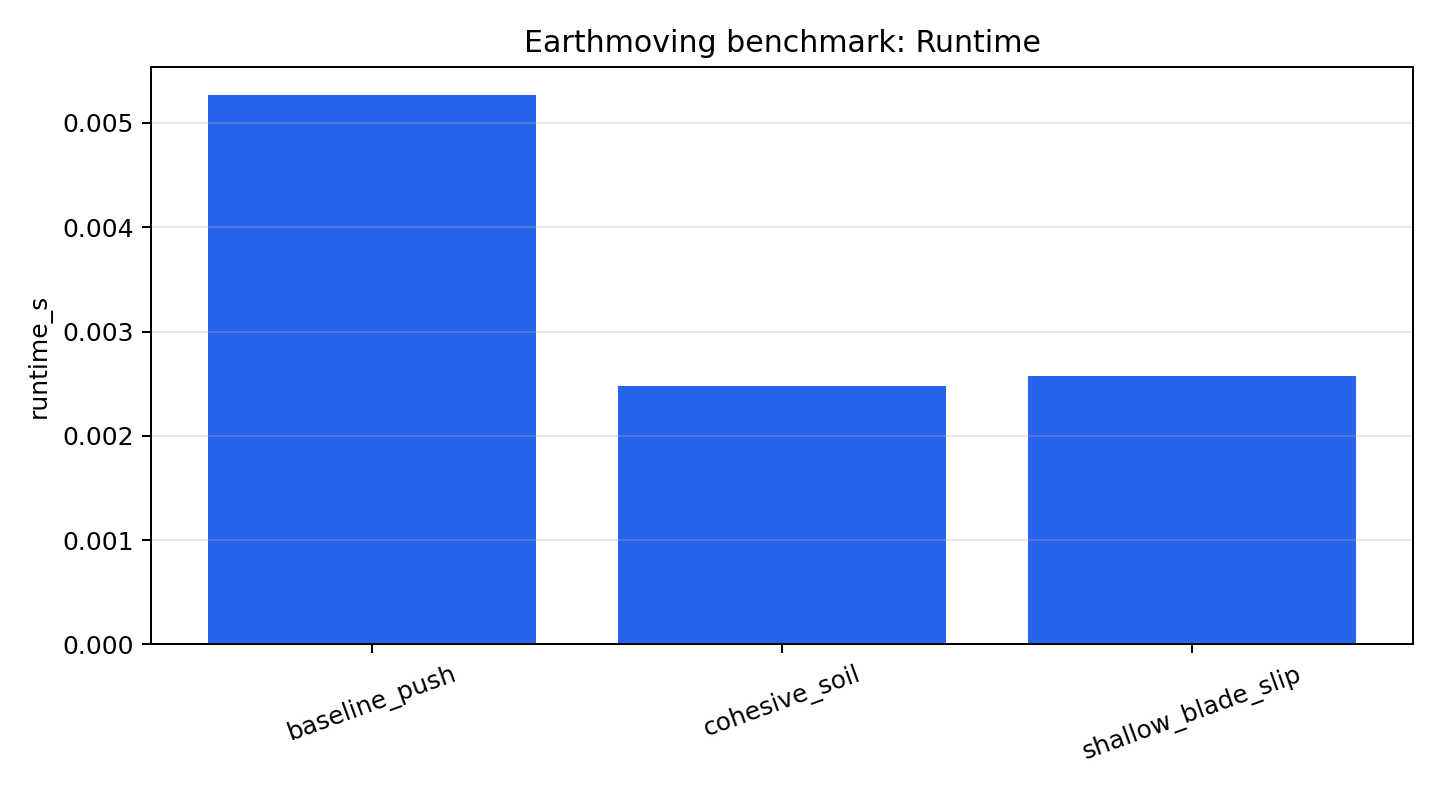
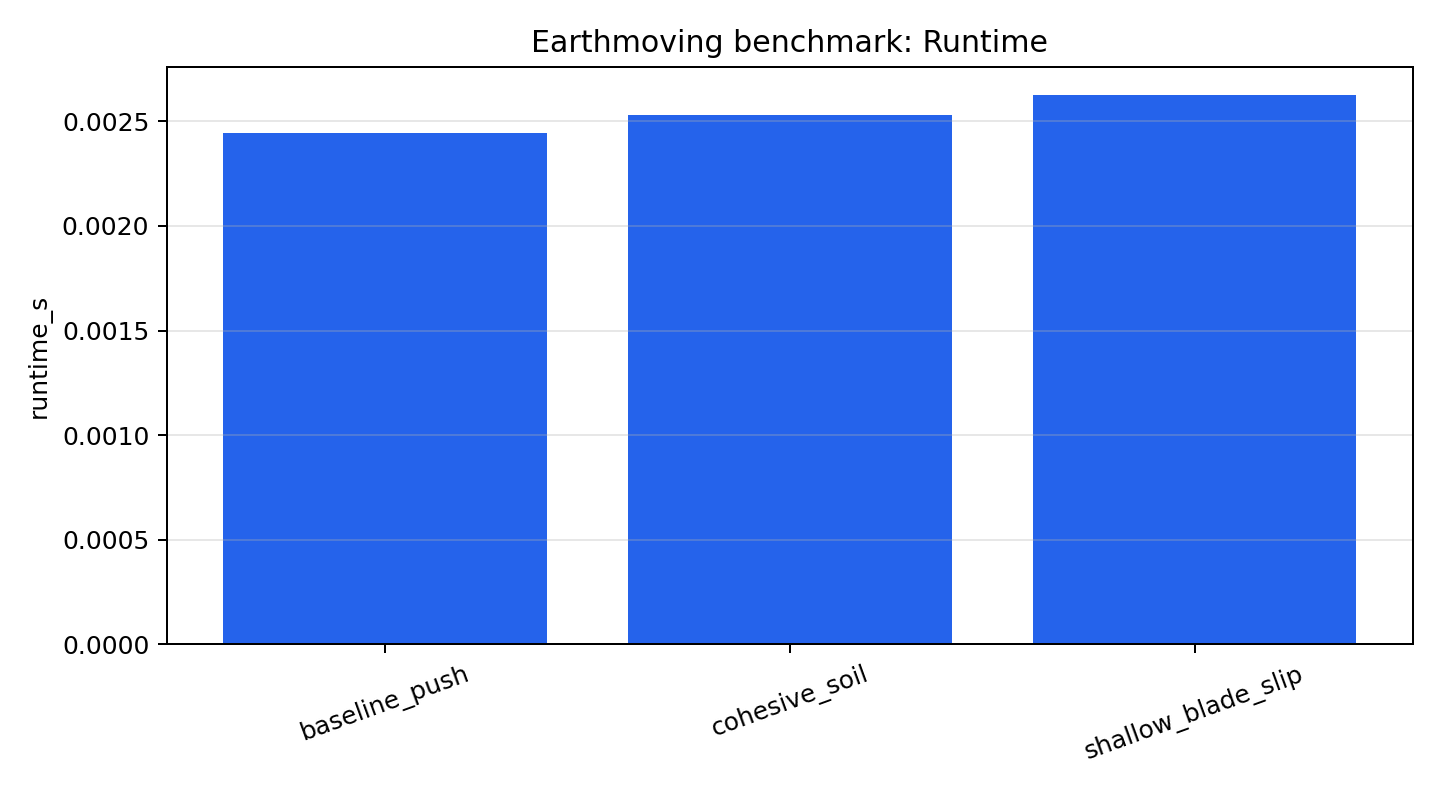
Add earthmoving material progress metrics

diff --git a/outputs/earthmoving_dashboard/index.html b/outputs/earthmoving_dashboard/index.html
@@ -114,6 +114,7 @@
         <section><h3>Gate Status</h3><p>pass</p></section>
         <section><h3>Throughput</h3><p>323.79/s</p></section>
         <section><h3>Best Scenario</h3><p>shallow_blade_slip</p></section>
+        <section><h3>Deposit Progress</h3><p>0.000 m</p></section>
         <section><h3>Calibration Error</h3><p>0.4378</p></section>
       </div>
     </header>
@@ -124,10 +125,10 @@
 <section><h3>Largest sim-to-field gap</h3><p>baseline_push</p><span>Improve delivered-material measurement around the target berm region.</span></section></div>
     <h2>Scenario Results</h2>
     <table>
-      <thead><tr><th>Scenario</th><th>Moved Volume</th><th>Terrain RMSE</th><th>Volume Error</th><th>Runtime</th></tr></thead>
-      <tbody><tr><td>shallow_blade_slip</td><td>0.000687</td><td>0.011930</td><td>0.000000</td><td>0.00257</td></tr>
-<tr><td>baseline_push</td><td>0.001599</td><td>0.013620</td><td>0.000000</td><td>0.00527</td></tr>
-<tr><td>cohesive_soil</td><td>0.001111</td><td>0.016632</td><td>0.000000</td><td>0.00247</td></tr></tbody>
+      <thead><tr><th>Scenario</th><th>Moved Volume</th><th>Deposit Progress</th><th>Terrain RMSE</th><th>Volume Error</th><th>Runtime</th></tr></thead>
+      <tbody><tr><td>shallow_blade_slip</td><td>0.000687</td><td>0.0622</td><td>0.011930</td><td>0.000000</td><td>0.00263</td></tr>
+<tr><td>baseline_push</td><td>0.001599</td><td>0.0690</td><td>0.013620</td><td>0.000000</td><td>0.00244</td></tr>
+<tr><td>cohesive_soil</td><td>0.001111</td><td>0.0673</td><td>0.016632</td><td>0.000000</td><td>0.00253</td></tr></tbody>
     </table>
     <h2>Top Sensitivities</h2>
     <table>

diff --git a/src/mujoco_sim_debugging_playbook/earthmoving_review_packet.py b/src/mujoco_sim_debugging_playbook/earthmoving_review_packet.py
@@ -36,6 +36,7 @@ def build_earthmoving_review_packet(
             "episodes_per_second": scale["summary"]["episodes_per_second"],
             "best_scenario": best_scenario["scenario"],
             "hardest_scenario": hardest_scenario["scenario"],
+            "mean_deposit_forward_progress": _mean(row.get("deposit_forward_progress", 0.0) for row in benchmark["rows"]),
             "mean_calibration_error": gap["summary"]["mean_calibration_error"],
             "top_sensitivity": top_sensitivity,
         },
@@ -43,12 +44,14 @@ def build_earthmoving_review_packet(
             _signal("Quality gate", gate["status"], "Earthmoving realism and throughput thresholds"),
             _signal("Scale throughput", f"{scale['summary']['episodes_per_second']:.2f} episodes/s", "Randomized batch evaluation speed"),
             _signal("Best terrain match", best_scenario["scenario"], f"RMSE {best_scenario['terrain_profile_rmse']:.5f}"),
+            _signal("Mean deposit progress", f"{_mean(row.get('deposit_forward_progress', 0.0) for row in benchmark['rows']):.3f} m", "Centroid displacement from cut region to deposit region"),
             _signal("Largest sim-to-field gap", top_gap["scenario"] if top_gap else "none", top_gap["recommended_action"] if top_gap else "No gap items"),
         ],
         "scenario_table": [
             {
                 "scenario": row["scenario"],
                 "moved_volume": row["moved_volume"],
+                "deposit_forward_progress": row.get("deposit_forward_progress", 0.0),
                 "terrain_profile_rmse": row["terrain_profile_rmse"],
                 "volume_conservation_error": row["volume_conservation_error"],
                 "runtime_s": row["runtime_s"],
@@ -111,6 +114,7 @@ def render_review_packet_markdown(payload: dict[str, Any]) -> str:
         f"- Throughput: `{summary['episodes_per_second']:.2f}` episodes/s",
         f"- Best scenario: `{summary['best_scenario']}`",
         f"- Hardest scenario: `{summary['hardest_scenario']}`",
+        f"- Mean deposit progress: `{summary['mean_deposit_forward_progress']:.3f}` m",
         f"- Mean calibration error: `{summary['mean_calibration_error']:.4f}`",
         "",
         "## Readiness Signals",
@@ -121,10 +125,10 @@ def render_review_packet_markdown(payload: dict[str, Any]) -> str:
     for signal in payload["readiness_signals"]:
         lines.append(f"| {signal['name']} | {signal['value']} | {signal['detail']} |")
 
-    lines.extend(["", "## Scenario Results", "", "| scenario | moved_volume | terrain_rmse | volume_error | runtime_s |", "| --- | ---: | ---: | ---: | ---: |"])
+    lines.extend(["", "## Scenario Results", "", "| scenario | moved_volume | deposit_progress_m | terrain_rmse | volume_error | runtime_s |", "| --- | ---: | ---: | ---: | ---: | ---: |"])
     for row in payload["scenario_table"]:
         lines.append(
-            f"| {row['scenario']} | {row['moved_volume']:.6f} | {row['terrain_profile_rmse']:.6f} | "
+            f"| {row['scenario']} | {row['moved_volume']:.6f} | {row['deposit_forward_progress']:.4f} | {row['terrain_profile_rmse']:.6f} | "
             f"{row['volume_conservation_error']:.6f} | {row['runtime_s']:.5f} |"
         )
 
@@ -144,3 +148,8 @@ def _read_json(path: str | Path) -> dict[str, Any]:
 
 def _signal(name: str, value: str, detail: str) -> dict[str, str]:
     return {"name": name, "value": value, "detail": detail}
+
+
+def _mean(values: Any) -> float:
+    items = [float(value) for value in values]
+    return sum(items) / len(items) if items else 0.0

diff --git a/src/mujoco_sim_debugging_playbook/earthmoving.py b/src/mujoco_sim_debugging_playbook/earthmoving.py
@@ -50,6 +50,11 @@ class EarthmovingMetrics:
     volume_conservation_error: float
     terrain_profile_rmse: float
     target_zone_volume: float
+    cut_centroid_x: float
+    cut_centroid_y: float
+    deposit_centroid_x: float
+    deposit_centroid_y: float
+    deposit_forward_progress: float
     material_moved_per_second: float
     pass_count: int
     runtime_s: float
@@ -128,6 +133,7 @@ class EarthmovingSimulation:
         soil_summary = apply_blade_pass(terrain, path, self.scenario.soil)
         runtime_s = max(time.perf_counter() - start_time, 1e-9)
         target_zone_volume = _target_zone_volume(terrain, self.scenario.target_center_x, self.scenario.target_width)
+        displacement = _material_displacement_metrics(initial, terrain)
         metrics = EarthmovingMetrics(
             moved_volume=soil_summary["moved_volume"],
             compacted_volume=soil_summary["compacted_volume"],
@@ -135,6 +141,11 @@ class EarthmovingSimulation:
             volume_conservation_error=abs(soil_summary["volume_error"]),
             terrain_profile_rmse=terrain.profile_error(target),
             target_zone_volume=target_zone_volume,
+            cut_centroid_x=displacement["cut_centroid_x"],
+            cut_centroid_y=displacement["cut_centroid_y"],
+            deposit_centroid_x=displacement["deposit_centroid_x"],
+            deposit_centroid_y=displacement["deposit_centroid_y"],
+            deposit_forward_progress=displacement["deposit_forward_progress"],
             material_moved_per_second=soil_summary["moved_volume"] / runtime_s,
             pass_count=1,
             runtime_s=runtime_s,
@@ -161,6 +172,30 @@ def _target_zone_volume(terrain: TerrainGrid, center_x: float, width: float) -> 
     mask = np.abs(terrain.xs[:, None] - center_x) <= width
     excess = np.clip(terrain.heights - terrain.config.base_height, 0.0, None)
     return float(np.sum(np.where(mask, excess, 0.0)) * terrain.cell_area)
+
+
+def _material_displacement_metrics(initial: TerrainGrid, final: TerrainGrid) -> dict[str, float]:
+    if initial.config != final.config:
+        raise ValueError("initial and final terrain grids must share a config")
+    cut_weights = np.clip(initial.heights - final.heights, 0.0, None)
+    deposit_weights = np.clip(final.heights - initial.heights, 0.0, None)
+    cut_x, cut_y = _weighted_centroid(initial, cut_weights)
+    deposit_x, deposit_y = _weighted_centroid(final, deposit_weights)
+    return {
+        "cut_centroid_x": cut_x,
+        "cut_centroid_y": cut_y,
+        "deposit_centroid_x": deposit_x,
+        "deposit_centroid_y": deposit_y,
+        "deposit_forward_progress": deposit_x - cut_x,
+    }
+
+
+def _weighted_centroid(terrain: TerrainGrid, weights: np.ndarray) -> tuple[float, float]:
+    total = float(np.sum(weights))
+    if total <= 1e-12:
+        return 0.0, 0.0
+    xx, yy = np.meshgrid(terrain.xs, terrain.ys, indexing="ij")
+    return float(np.sum(xx * weights) / total), float(np.sum(yy * weights) / total)
 
 
 def result_to_dict(result: EarthmovingResult) -> dict[str, Any]:

diff --git a/src/mujoco_sim_debugging_playbook/earthmoving_benchmark.py b/src/mujoco_sim_debugging_playbook/earthmoving_benchmark.py
@@ -94,6 +94,11 @@ def _row_from_result(result: EarthmovingResult) -> dict[str, Any]:
         "volume_conservation_error": metrics.volume_conservation_error,
         "terrain_profile_rmse": metrics.terrain_profile_rmse,
         "target_zone_volume": metrics.target_zone_volume,
+        "cut_centroid_x": metrics.cut_centroid_x,
+        "cut_centroid_y": metrics.cut_centroid_y,
+        "deposit_centroid_x": metrics.deposit_centroid_x,
+        "deposit_centroid_y": metrics.deposit_centroid_y,
+        "deposit_forward_progress": metrics.deposit_forward_progress,
         "material_moved_per_second": metrics.material_moved_per_second,
         "runtime_s": metrics.runtime_s,
     }
@@ -124,6 +129,7 @@ def _plot_terrain_triptych(result: EarthmovingResult, path: Path) -> None:
 def _plot_metric_bars(rows: list[dict[str, Any]], output_dir: Path) -> None:
     metrics = [
         ("moved_volume", "Moved volume"),
+        ("deposit_forward_progress", "Deposit forward progress"),
         ("terrain_profile_rmse", "Terrain RMSE"),
         ("volume_conservation_error", "Volume conservation error"),
         ("runtime_s", "Runtime"),
@@ -145,14 +151,15 @@ def _write_report(rows: list[dict[str, Any]], output_path: Path) -> None:
     lines = [
         "# Earthmoving Benchmark",
         "",
-        "Construction-machine blade scenarios evaluated against terrain deformation, target berm, conservation, and runtime metrics.",
+        "Construction-machine blade scenarios evaluated against terrain deformation, target berm, material displacement, conservation, and runtime metrics.",
         "",
-        "| scenario | moved_volume | target_zone_volume | terrain_rmse | volume_error | runtime_s |",
-        "| --- | ---: | ---: | ---: | ---: | ---: |",
+        "| scenario | moved_volume | target_zone_volume | deposit_progress_m | terrain_rmse | volume_error | runtime_s |",
+        "| --- | ---: | ---: | ---: | ---: | ---: | ---: |",
     ]
     for row in sorted(rows, key=lambda item: item["terrain_profile_rmse"]):
         lines.append(
             f"| {row['scenario']} | {row['moved_volume']:.6f} | {row['target_zone_volume']:.6f} | "
+            f"{row['deposit_forward_progress']:.4f} | "
             f"{row['terrain_profile_rmse']:.6f} | {row['volume_conservation_error']:.6f} | {row['runtime_s']:.4f} |"
         )
     best = min(rows, key=lambda item: item["terrain_profile_rmse"])

diff --git a/src/mujoco_sim_debugging_playbook/earthmoving_dashboard.py b/src/mujoco_sim_debugging_playbook/earthmoving_dashboard.py
@@ -27,6 +27,7 @@ def _render_html(packet: dict[str, Any]) -> str:
         "<tr>"
         f"<td>{html.escape(row['scenario'])}</td>"
         f"<td>{row['moved_volume']:.6f}</td>"
+        f"<td>{row.get('deposit_forward_progress', 0.0):.4f}</td>"
         f"<td>{row['terrain_profile_rmse']:.6f}</td>"
         f"<td>{row['volume_conservation_error']:.6f}</td>"
         f"<td>{row['runtime_s']:.5f}</td>"
@@ -161,6 +162,7 @@ def _render_html(packet: dict[str, Any]) -> str:
         <section><h3>Gate Status</h3><p>{html.escape(summary['gate_status'])}</p></section>
         <section><h3>Throughput</h3><p>{summary['episodes_per_second']:.2f}/s</p></section>
         <section><h3>Best Scenario</h3><p>{html.escape(summary['best_scenario'])}</p></section>
+        <section><h3>Deposit Progress</h3><p>{summary.get('mean_deposit_forward_progress', 0.0):.3f} m</p></section>
         <section><h3>Calibration Error</h3><p>{summary['mean_calibration_error']:.4f}</p></section>
       </div>
     </header>
@@ -168,7 +170,7 @@ def _render_html(packet: dict[str, Any]) -> str:
     <div class="signals">{signals}</div>
     <h2>Scenario Results</h2>
     <table>
-      <thead><tr><th>Scenario</th><th>Moved Volume</th><th>Terrain RMSE</th><th>Volume Error</th><th>Runtime</th></tr></thead>
+      <thead><tr><th>Scenario</th><th>Moved Volume</th><th>Deposit Progress</th><th>Terrain RMSE</th><th>Volume Error</th><th>Runtime</th></tr></thead>
       <tbody>{scenario_rows}</tbody>
     </table>
     <h2>Top Sensitivities</h2>

diff --git a/src/mujoco_sim_debugging_playbook/earthmoving_failure_modes.py b/src/mujoco_sim_debugging_playbook/earthmoving_failure_modes.py
@@ -82,6 +82,8 @@ def _scenario_failure_items(row: dict[str, Any]) -> list[dict[str, Any]]:
         items.append(_item(row, "under_excavation", "high", 80.0, "Moved volume is below the practical debugging threshold.", "Increase blade depth/coupling or calibrate soil resistance."))
     if row["terrain_profile_rmse"] > 0.04:
         items.append(_item(row, "target_profile_miss", "high", 72.0, "Final terrain profile is far from the target berm.", "Tune deposit spread, target geometry, and path planning."))
+    if row.get("deposit_forward_progress", 0.0) < 0.15:
+        items.append(_item(row, "poor_material_progress", "medium", 62.0, "Deposit centroid did not advance far beyond the cut centroid.", "Inspect blade path, deposit spread, and transport losses."))
     if row["volume_conservation_error"] > 0.00025:
         items.append(_item(row, "volume_residual", "medium", 58.0, "Compaction-adjusted volume residual is elevated.", "Inspect compaction rate and transport/deposit accounting."))
     if row["runtime_s"] > 0.05:

diff --git a/tests/test_earthmoving.py b/tests/test_earthmoving.py
@@ -26,5 +26,7 @@ def test_earthmoving_simulation_runs_blade_push() -> None:
 
     assert result.metrics.moved_volume > 0.0
     assert result.metrics.target_zone_volume > 0.0
+    assert result.metrics.deposit_forward_progress > 0.0
+    assert result.metrics.deposit_centroid_x > result.metrics.cut_centroid_x
     assert result.metrics.terrain_profile_rmse >= 0.0
     assert len(result.blade_path) == scenario.blade.steps

diff --git a/tests/test_earthmoving_benchmark.py b/tests/test_earthmoving_benchmark.py
@@ -36,3 +36,4 @@ def test_run_earthmoving_benchmark_writes_outputs(tmp_path: Path) -> None:
     assert (output / "report.md").exists()
     assert (output / "baseline_push_terrain.png").exists()
     assert result["rows"][0]["moved_volume"] > 0.0
+    assert result["rows"][0]["deposit_forward_progress"] > 0.0

diff --git a/outputs/earthmoving_review_packet/review_packet.md b/outputs/earthmoving_review_packet/review_packet.md
@@ -6,6 +6,7 @@
 - Throughput: `323.79` episodes/s
 - Best scenario: `shallow_blade_slip`
 - Hardest scenario: `cohesive_soil`
+- Mean deposit progress: `0.066` m
 - Mean calibration error: `0.4378`
 
 ## Readiness Signals
@@ -15,15 +16,16 @@
 | Quality gate | pass | Earthmoving realism and throughput thresholds |
 | Scale throughput | 323.79 episodes/s | Randomized batch evaluation speed |
 | Best terrain match | shallow_blade_slip | RMSE 0.01193 |
+| Mean deposit progress | 0.066 m | Centroid displacement from cut region to deposit region |
 | Largest sim-to-field gap | baseline_push | Improve delivered-material measurement around the target berm region. |
 
 ## Scenario Results
 
-| scenario | moved_volume | terrain_rmse | volume_error | runtime_s |
-| --- | ---: | ---: | ---: | ---: |
-| shallow_blade_slip | 0.000687 | 0.011930 | 0.000000 | 0.00257 |
-| baseline_push | 0.001599 | 0.013620 | 0.000000 | 0.00527 |
-| cohesive_soil | 0.001111 | 0.016632 | 0.000000 | 0.00247 |
+| scenario | moved_volume | deposit_progress_m | terrain_rmse | volume_error | runtime_s |
+| --- | ---: | ---: | ---: | ---: | ---: |
+| shallow_blade_slip | 0.000687 | 0.0622 | 0.011930 | 0.000000 | 0.00263 |
+| baseline_push | 0.001599 | 0.0690 | 0.013620 | 0.000000 | 0.00244 |
+| cohesive_soil | 0.001111 | 0.0673 | 0.016632 | 0.000000 | 0.00253 |
 
 ## Top Sensitivities
 

diff --git a/outputs/earthmoving_benchmark/report.md b/outputs/earthmoving_benchmark/report.md
@@ -1,11 +1,11 @@
 # Earthmoving Benchmark
 
-Construction-machine blade scenarios evaluated against terrain deformation, target berm, conservation, and runtime metrics.
+Construction-machine blade scenarios evaluated against terrain deformation, target berm, material displacement, conservation, and runtime metrics.
 
-| scenario | moved_volume | target_zone_volume | terrain_rmse | volume_error | runtime_s |
-| --- | ---: | ---: | ---: | ---: | ---: |
-| shallow_blade_slip | 0.000687 | 0.000000 | 0.011930 | 0.000000 | 0.0026 |
-| baseline_push | 0.001599 | 0.000000 | 0.013620 | 0.000000 | 0.0053 |
-| cohesive_soil | 0.001111 | 0.000000 | 0.016632 | 0.000000 | 0.0025 |
+| scenario | moved_volume | target_zone_volume | deposit_progress_m | terrain_rmse | volume_error | runtime_s |
+| --- | ---: | ---: | ---: | ---: | ---: | ---: |
+| shallow_blade_slip | 0.000687 | 0.000000 | 0.0622 | 0.011930 | 0.000000 | 0.0026 |
+| baseline_push | 0.001599 | 0.000000 | 0.0690 | 0.013620 | 0.000000 | 0.0024 |
+| cohesive_soil | 0.001111 | 0.000000 | 0.0673 | 0.016632 | 0.000000 | 0.0025 |
 
 Best terrain-profile match: `shallow_blade_slip` with `0.011930` RMSE.

diff --git a/outputs/earthmoving_failure_modes/report.md b/outputs/earthmoving_failure_modes/report.md
@@ -1,10 +1,13 @@
 # Earthmoving Failure Modes
 
-Items: `2`
+Items: `5`
 High severity: `1`
 Top mode: `under_excavation`
 
 | scenario | mode | severity | score | next_action |
 | --- | --- | --- | ---: | --- |
 | shallow_blade_slip | under_excavation | high | 80.0 | Increase blade depth/coupling or calibrate soil resistance. |
+| baseline_push | poor_material_progress | medium | 62.0 | Inspect blade path, deposit spread, and transport losses. |
+| cohesive_soil | poor_material_progress | medium | 62.0 | Inspect blade path, deposit spread, and transport losses. |
+| shallow_blade_slip | poor_material_progress | medium | 62.0 | Inspect blade path, deposit spread, and transport losses. |
 | cohesive_soil | debug_hypothesis | medium | 45.0 | Open the replay bundle and compare blade path, terrain stats, and soil parameters. |

diff --git a/docs/earthmoving-benchmark-guide.md b/docs/earthmoving-benchmark-guide.md
@@ -26,6 +26,7 @@ make terrain-kernel-smoke
 
 - `moved_volume`: soil volume removed by the blade footprint
 - `target_zone_volume`: material delivered into the desired berm region
+- `deposit_forward_progress`: centroid displacement from cut material to deposited material
 - `terrain_profile_rmse`: final terrain error against the target terrain
 - `volume_conservation_error`: conservation residual after compaction
 - `runtime_s`: wall-clock runtime per scenario
